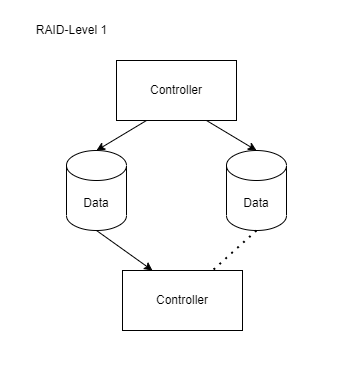
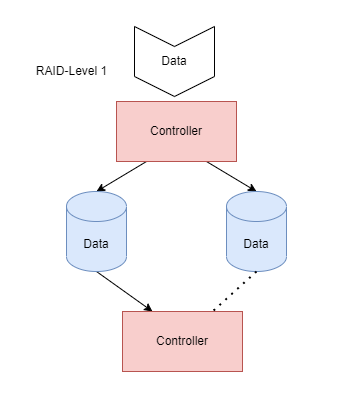
raid level 3

diff --git a/data/entries/ITS-GR/ITSGR-Block2.md b/data/entries/ITS-GR/ITSGR-Block2.md
@@ -205,10 +205,18 @@ Vorteil:
 
 Nachteil:
 
-bei der Verwendung von 2 Festplatten kann nur die Kapazität der kleinsten Platte verwendet werden
+- bei der Verwendung von 2 Festplatten kann nur die Kapazität der kleinsten Platte verwendet werden
 
--> Netto <= 0.5 Brutto
+**-> Netto <= 0.5 Brutto**
 
 #### RAID 3
+
+![Raid3](../images/RaidLevel3.png)
+
+Vorteil:
+
+- Redundanz
+- Besseres Verhältnis von Netto/Brutto gegenüber RAID 1
+- Höherer Datendurchsatz
 
 ![Raid-Arten](../images/Raid.png)
